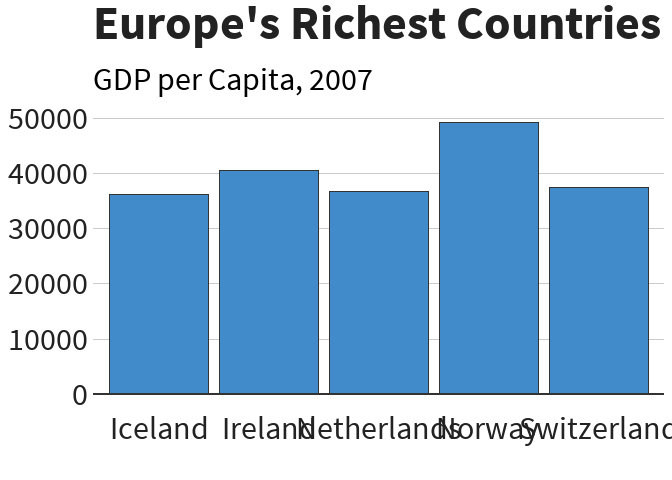
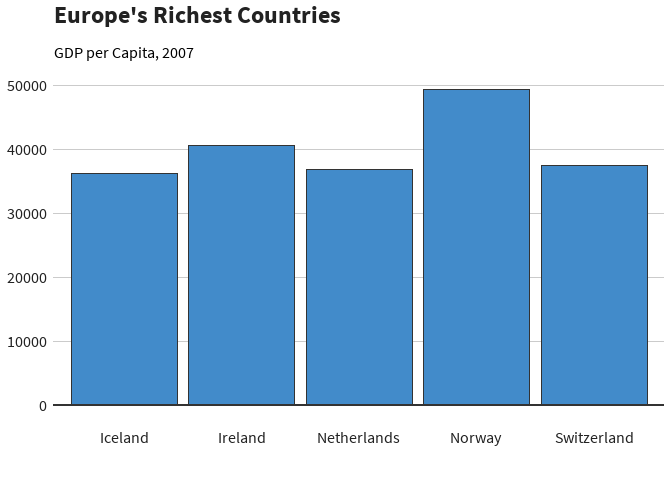
introduce format text sizing parameter

diff --git a/README.md b/README.md
@@ -152,8 +152,8 @@ finalise_ggplot(
   plot_to_save,
   source = "Jennifer Bryan, 2017, Gapminder R package, https://github.com/jennybc/gapminder",
   save_filepath = "inst/plots/publish_plot_example.png",
-  width_pixels = 320,
-  height_pixels = 225
+  width_pixels = 225,
+  height_pixels = 175
 )
 ```
 
